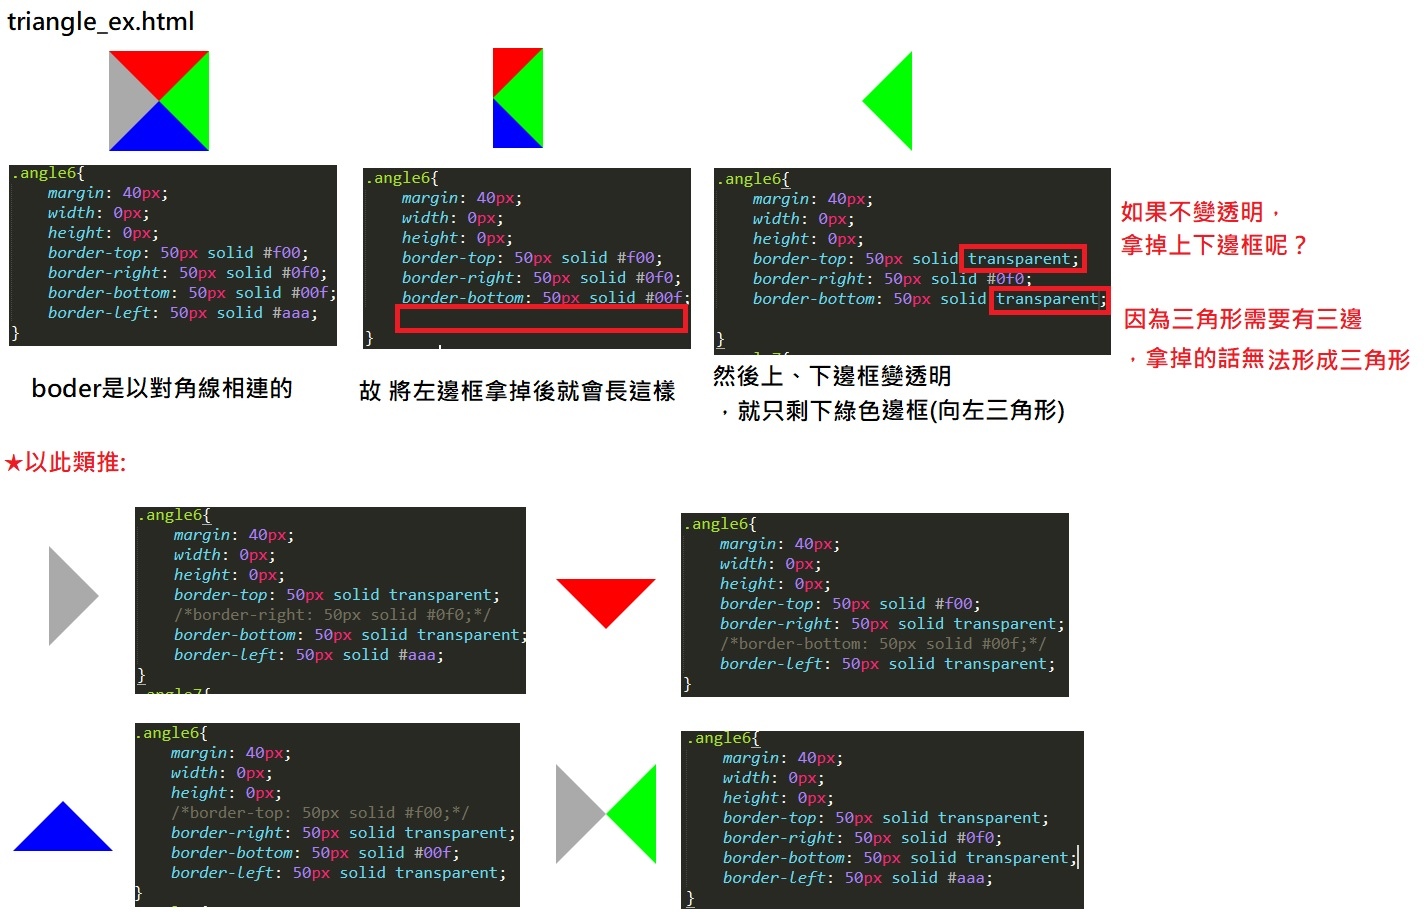
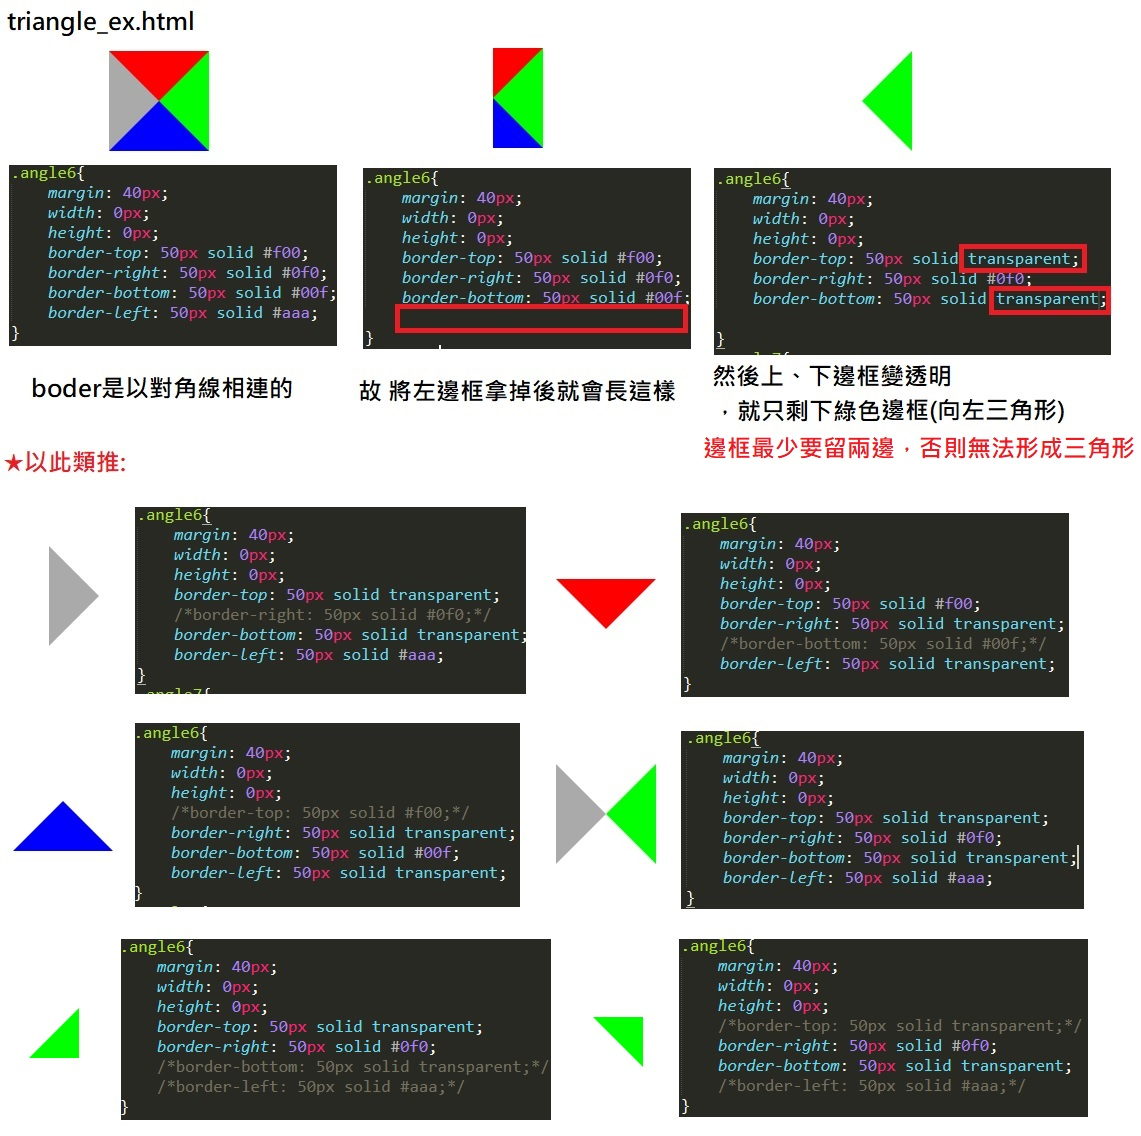
Revise ch3 learning note's draw triangle explanation

diff --git a/ch3/triangle_ex.html b/ch3/triangle_ex.html
@@ -57,10 +57,10 @@
 			margin: 40px;
 			width: 0px;
 			height: 0px;
-			border-top: 50px solid #f00;
+			/*border-top: 50px solid transparent;*/
 			border-right: 50px solid #0f0;
-			border-bottom: 50px solid #00f;
-			border-left: 50px solid #aaa;
+			border-bottom: 50px solid transparent;
+			/*border-left: 50px solid #aaa;*/
 		}
 		.angle7{
 			margin: 100px 10px;
@@ -89,7 +89,9 @@
 	<div class="angle4">
 	<div class="angle5">
 	<div class="angle6">
+	<!--
 	<div class="angle7">
+	-->
 </div>
 </body>
 </html>
